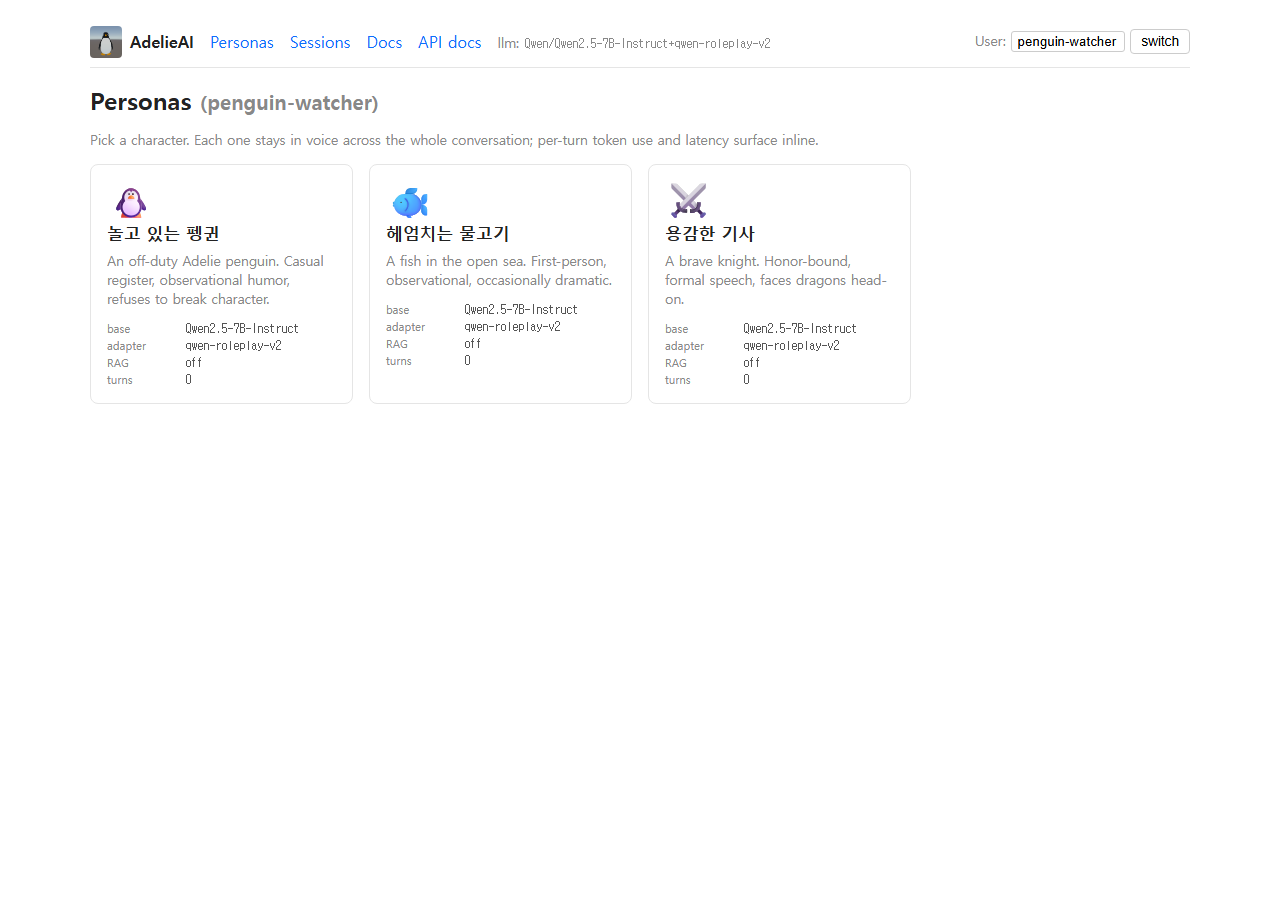
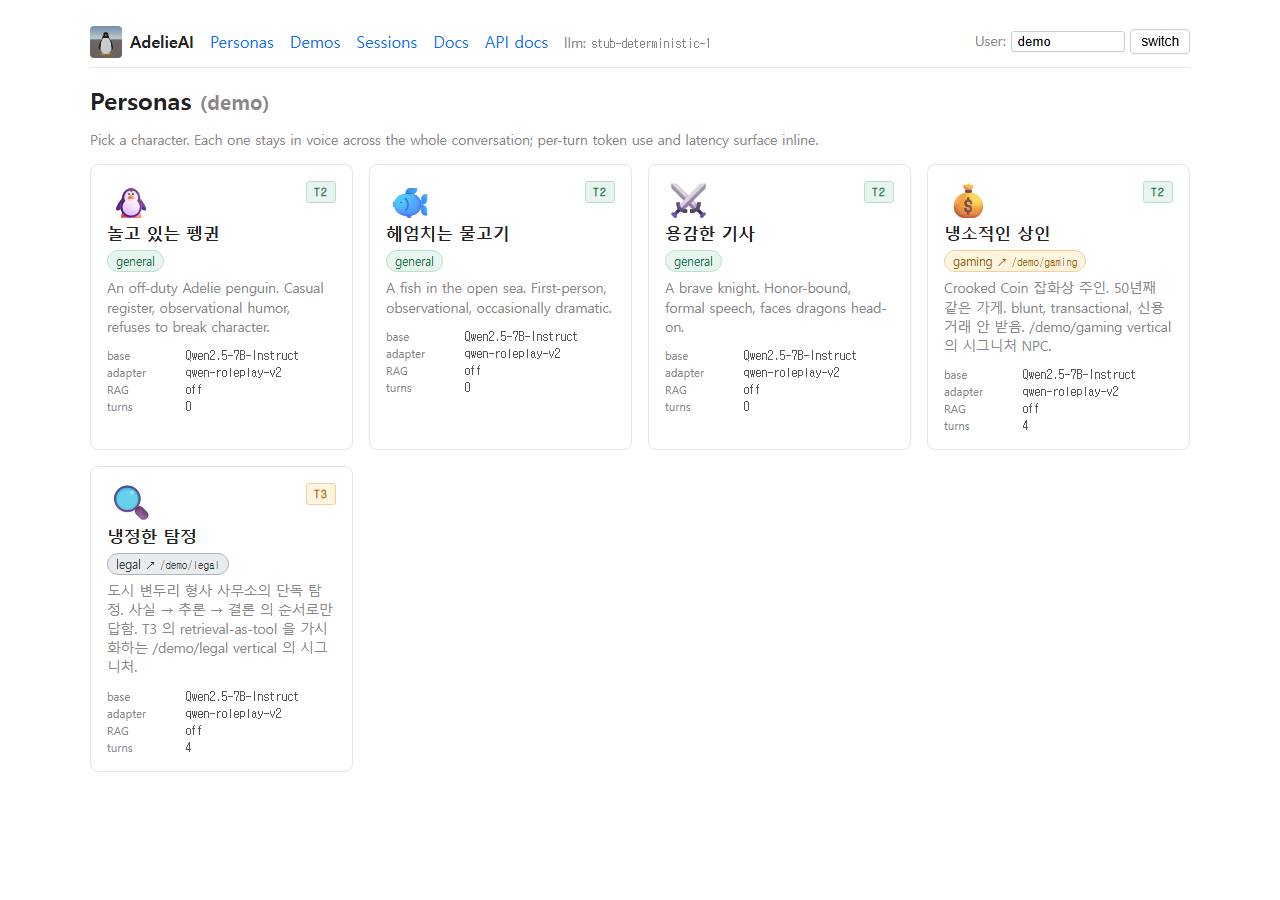
feat(ux): tier badge + industry pill on every persona surface
The Persona dataclass gained target_tier + industry in Step 1 but
the UX never surfaced them — visitors had no way to see, at a
glance, *which tier each persona requires* or *which industry demo
it anchors*. Closed that gap on every surface a persona shows up
in.

Persona gallery (/web/personas)
  - Each card now displays a colored tier badge (T1-T5, distinct
    palette per tier) at the top-right plus an industry pill
    (general / gaming / legal / knowledge) below the name.
  - For non-general personas the industry pill is a clickable
    deep-link: gaming ↗ /demo/gaming, legal ↗ /demo/legal, etc.
    Industry naturally becomes a discoverability hook for the
    vertical demo.
  - 5 cards now (penguin, fish, knight, merchant, detective);
    re-captured docs/screenshots/01_personas.png to match.

Chat thread sidebar (/web/chat/{persona_id})
  - Persona meta dl gains "tier" (T<n>) and "industry"
    (clickable to its demo route) rows above base/adapter/RAG/turns.
  - Captured docs/screenshots/23_chat_sidebar_tier.png as a
    reference (cold_detective with T3 + legal ↗ + a real
    multi-turn exchange already in the transcript).

Surfaces tier framework now lives on:
  /             — root JSON: tier, tier_max
  /health       — JSON: tier, tier_max, tier_status (per-tier)
  /web/personas — gallery cards: tier badge + industry pill
  /web/chat/{id} — sidebar dl: tier + industry rows
  /demo/        — per-vertical card with tier label
[…]

diff --git a/core/api/templates/personas/list.html b/core/api/templates/personas/list.html
@@ -33,10 +33,50 @@
     transform: translateY(-1px);
     text-decoration: none;
 }
+.persona-card .card-header {
+    display: flex;
+    align-items: flex-start;
+    justify-content: space-between;
+    gap: 0.5rem;
+}
 .persona-card .emoji {
     font-size: 2.2rem;
     line-height: 1;
 }
+.tier-badge {
+    font-family: ui-monospace, monospace;
+    font-size: 0.7rem;
+    font-weight: 700;
+    letter-spacing: 1px;
+    padding: 3px 7px;
+    border-radius: 3px;
+}
+.tier-T1 { background: #f1f3f5; color: #6c757d; border: 1px solid #ced4da; }
+.tier-T2 { background: #e7f5ee; color: #1a7548; border: 1px solid #b6e3c8; }
+.tier-T3 { background: #fff4e0; color: #b46a00; border: 1px solid #f5cf95; }
+.tier-T4 { background: #ede7f6; color: #5e3aa1; border: 1px solid #c8b6e6; }
+.tier-T5 { background: #ffe9ec; color: #b02a4c; border: 1px solid #f5b7c0; }
+
+.industry-row { margin-top: -0.1rem; }
+.industry-pill {
+    display: inline-block;
+    font-size: 0.72rem;
+    padding: 2px 8px;
+    border-radius: 999px;
+    background: #f1f3f5;
+    color: #495057;
+    border: 1px solid #dee2e6;
+}
+.industry-pill code {
+    font-size: 0.95em;
+    color: inherit;
+    background: none;
+}
+.industry-gaming    { background: #fff4e0; color: #a4660a; border-color: #f5cf95; }
+.industry-legal     { background: #e9ecef; color: #343a40; border-color: #adb5bd; }
+.industry-knowledge { background: #ede7f6; color: #5e3aa1; border-color: #c8b6e6; }
+.industry-general   { background: #e7f5ee; color: #1a7548; border-color: #b6e3c8; }
+
 .persona-card .name {
     font-weight: 600;
     font-size: 1.05em;

diff --git a/core/api/templates/personas/_card.html b/core/api/templates/personas/_card.html
@@ -1,6 +1,16 @@
 <a class="persona-card" href="/web/chat/{{ p.persona_id }}">
-    <div class="emoji">{{ p.emoji }}</div>
+    <div class="card-header">
+        <div class="emoji">{{ p.emoji }}</div>
+        <span class="tier-badge tier-T{{ p.target_tier }}" title="capability tier — see docs/CAPABILITY_TIERS.md">T{{ p.target_tier }}</span>
+    </div>
     <div class="name">{{ p.display_name }}</div>
+    <div class="industry-row">
+        {% if p.industry == "general" %}
+            <span class="industry-pill industry-general">general</span>
+        {% else %}
+            <span class="industry-pill industry-{{ p.industry }}">{{ p.industry }} ↗ <code>/demo/{{ p.industry }}</code></span>
+        {% endif %}
+    </div>
     <div class="desc">{{ p.description }}</div>
     <dl class="meta">
         <dt>base</dt><dd>{{ p.base_model_hint.split('/')[-1] }}</dd>

diff --git a/core/api/templates/chat/thread.html b/core/api/templates/chat/thread.html
@@ -38,6 +38,14 @@
         <h3>Persona</h3>
         <dl>
             <dt>id</dt><dd><code>{{ persona.persona_id }}</code></dd>
+            <dt>tier</dt><dd><code>T{{ persona.target_tier }}</code></dd>
+            <dt>industry</dt><dd>
+                {% if persona.industry == "general" %}
+                    <code>general</code>
+                {% else %}
+                    <code><a href="/demo/{{ persona.industry }}" style="color: #0d6efd;">{{ persona.industry }} ↗</a></code>
+                {% endif %}
+            </dd>
             <dt>base</dt><dd><code>{{ persona.base_model_hint.split('/')[-1] }}</code></dd>
             {% if persona.adapter_hint %}<dt>adapter</dt><dd><code>{{ persona.adapter_hint }}</code></dd>{% endif %}
             <dt>RAG</dt><dd>{{ "on" if persona.rag_enabled else "off" }}</dd>

diff --git a/README.md b/README.md
@@ -82,7 +82,7 @@ Three Korean role-play personas (penguin / fish / knight) ship out of the box. C
 
 | Frame | What it shows |
 |---|---|
-| [`01_personas.png`](docs/screenshots/01_personas.png) | Persona gallery — three default characters with base / adapter / RAG / turn-count meta |
+| [`01_personas.png`](docs/screenshots/01_personas.png) | Persona gallery — five characters with **tier badge** + **industry pill** + base / adapter / RAG / turn-count meta |
 | [`02_chat_thread.png`](docs/screenshots/02_chat_thread.png) | Chat thread with per-turn telemetry (`{latency}s · {tokens} tok`) and persona sidebar (system prompt + adapter id) |
 | [`03_sessions.png`](docs/screenshots/03_sessions.png) | Agentic session mode — RAG-grounded one-shot runs (LangGraph planner → retriever → reasoner → reporter) |
 | [`04_docs_unavailable.png`](docs/screenshots/04_docs_unavailable.png) | Graceful fallback when no embedder is mounted |
